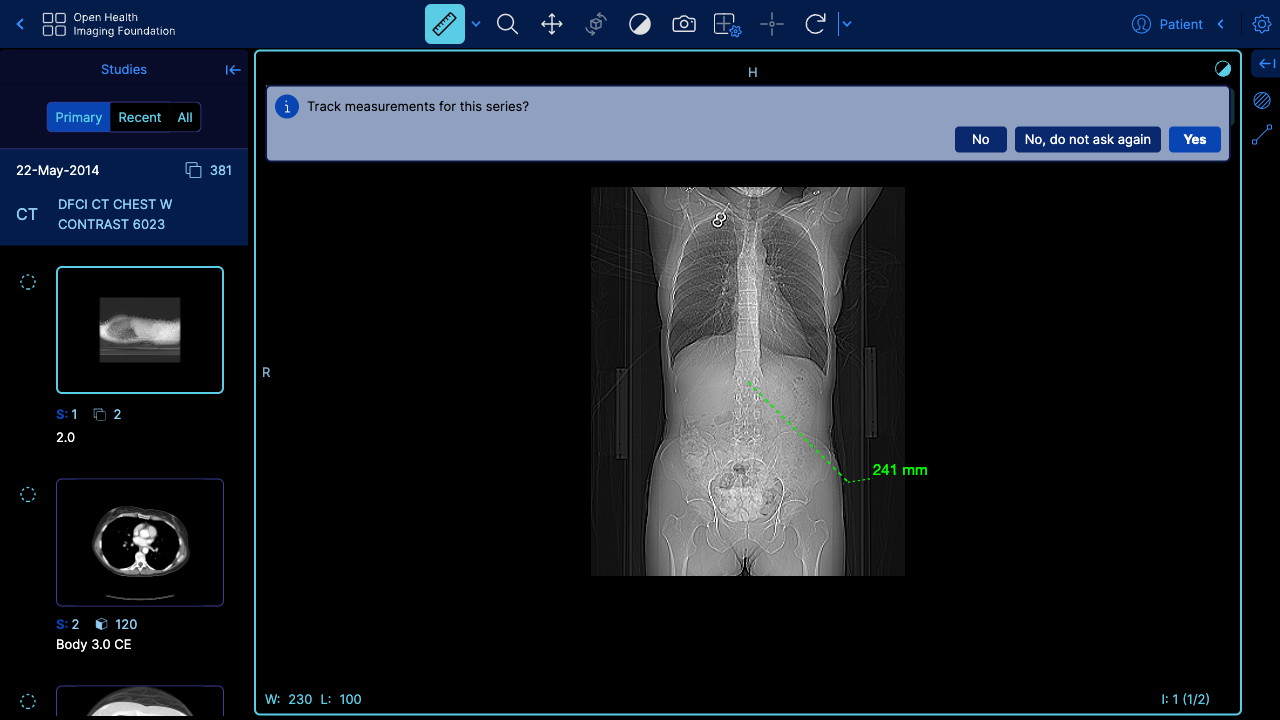
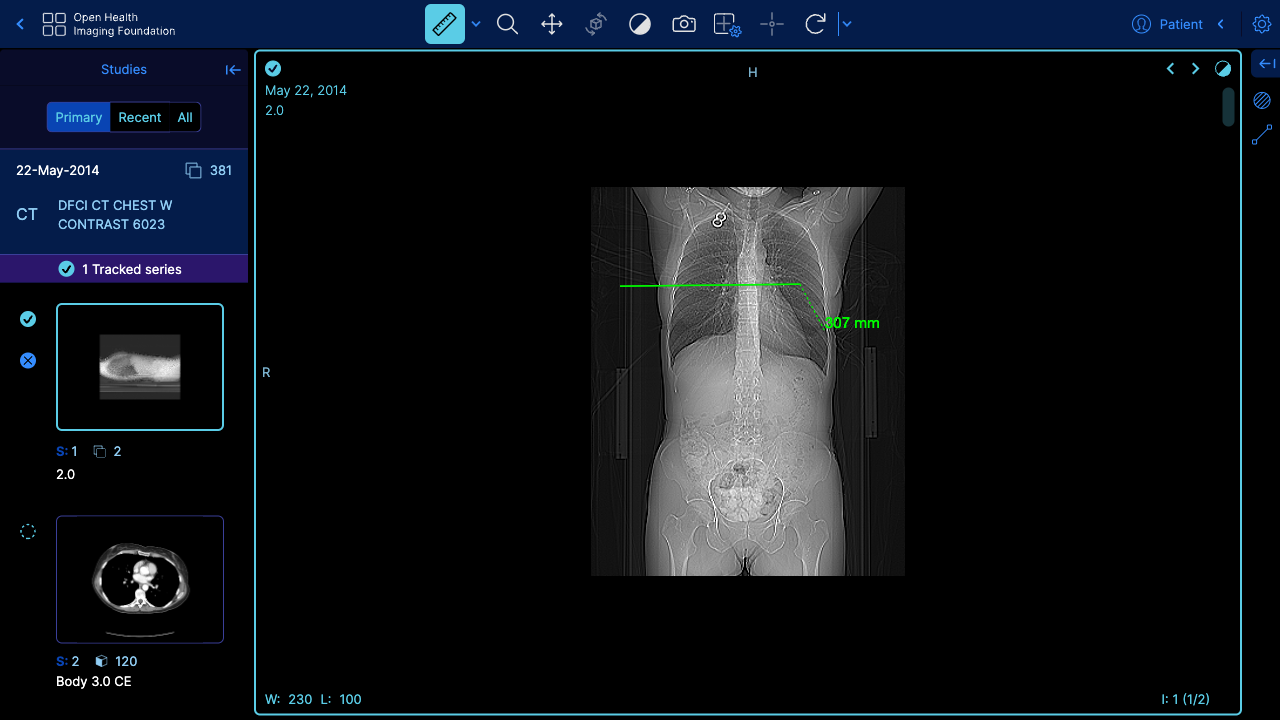
tests(increase-coverage): weekly tests PR (#4202)

diff --git a/tests/utils/screenShotPaths.ts b/tests/utils/screenShotPaths.ts
@@ -2,11 +2,38 @@
  * Paths to the screenshots of the tests.
  */
 const screenShotPaths = {
-  mpr: {
-    mprDisplayedCorrectly: 'mprDisplayedCorrectly.png',
+  angle: {
+    angleDisplayedCorrectly: 'angleDisplayedCorrectly.png',
+  },
+  bidirectional: {
+    bidirectionalDisplayedCorrectly: 'bidirectionalDisplayedCorrectly.png',
+  },
+  circle: {
+    circleDisplayedCorrectly: 'circleDisplayedCorrectly.png',
+  },
+  cobbangle: {
+    cobbangleDisplayedCorrectly: 'cobbangleDisplayedCorrectly.png',
+  },
+  ellipse: {
+    ellipseDisplayedCorrectly: 'ellipseDisplayedCorrectly.png',
   },
   length: {
     lengthDisplayedCorrectly: 'lengthDisplayedCorrectly.png',
+  },
+  livewire: {
+    livewireDisplayedCorrectly: 'livewireDisplayedCorrectly.png',
+  },
+  mpr: {
+    mprDisplayedCorrectly: 'mprDisplayedCorrectly.png',
+  },
+  probe: {
+    probeDisplayedCorrectly: 'probeDisplayedCorrectly.png',
+  },
+  rectangle: {
+    rectangleDisplayedCorrectly: 'rectangleDisplayedCorrectly.png',
+  },
+  spline: {
+    splineDisplayedCorrectly: 'splineDisplayedCorrectly.png',
   },
 };
 

diff --git a/tests/utils/simulateClicksOnElement.ts b/tests/utils/simulateClicksOnElement.ts
@@ -1,0 +1,19 @@
+import { Locator } from 'playwright';
+
+/**
+ *
+ * @parm locator - The locator to click on
+ * @param points - The points to click on
+ * @returns Promise<void>
+ */
+export async function simulateClicksOnElement({
+  locator,
+  points,
+}: {
+  locator: Locator;
+  points: { x: number; y: number }[];
+}) {
+  for (const { x, y } of points) {
+    await locator.click({ delay: 100, position: { x, y } });
+  }
+}

diff --git a/tests/utils/visitStudy.ts b/tests/utils/visitStudy.ts
@@ -5,12 +5,19 @@ import { Page } from '@playwright/test';
  * @param page - The page to interact with
  * @param title - The study instance UID of the study to visit
  * @param mode - The mode to visit the study in
+ * @param delay - The delay to wait after visiting the study
  */
-export async function visitStudy(page: Page, studyInstanceUID: string, mode: string) {
+export async function visitStudy(
+  page: Page,
+  studyInstanceUID: string,
+  mode: string,
+  delay: number = 0
+) {
   await page.goto('/?resultsPerPage=100');
   await page.getByTestId('confirm-and-hide-button').click();
   await page.getByTestId(studyInstanceUID).click();
   await page.getByRole('button', { name: mode }).click();
   await page.waitForLoadState('domcontentloaded');
   await page.waitForLoadState('networkidle');
+  await page.waitForTimeout(delay);
 }

diff --git a/tests/utils/index.ts b/tests/utils/index.ts
@@ -1,6 +1,6 @@
 import { visitStudy } from './visitStudy';
 import { checkForScreenshot } from './checkForScreenshot';
 import { screenShotPaths } from './screenShotPaths';
-import { simulateDrag } from './simulateDrag';
+import { simulateClicksOnElement } from './simulateClicksOnElement';
 
-export { visitStudy, checkForScreenshot, screenShotPaths, simulateDrag };
+export { visitStudy, checkForScreenshot, screenShotPaths, simulateClicksOnElement };

diff --git a/tests/MPR.spec.ts b/tests/MPR.spec.ts
@@ -4,7 +4,7 @@ import { visitStudy, checkForScreenshot, screenShotPaths } from './utils/index';
 test.beforeEach(async ({ page }) => {
   const studyInstanceUID = '2.16.840.1.114362.1.11972228.22789312658.616067305.306.2';
   const mode = 'Basic Viewer';
-  await visitStudy(page, studyInstanceUID, mode);
+  await visitStudy(page, studyInstanceUID, mode, 2000);
 });
 
 test.describe('MPR Test', async () => {